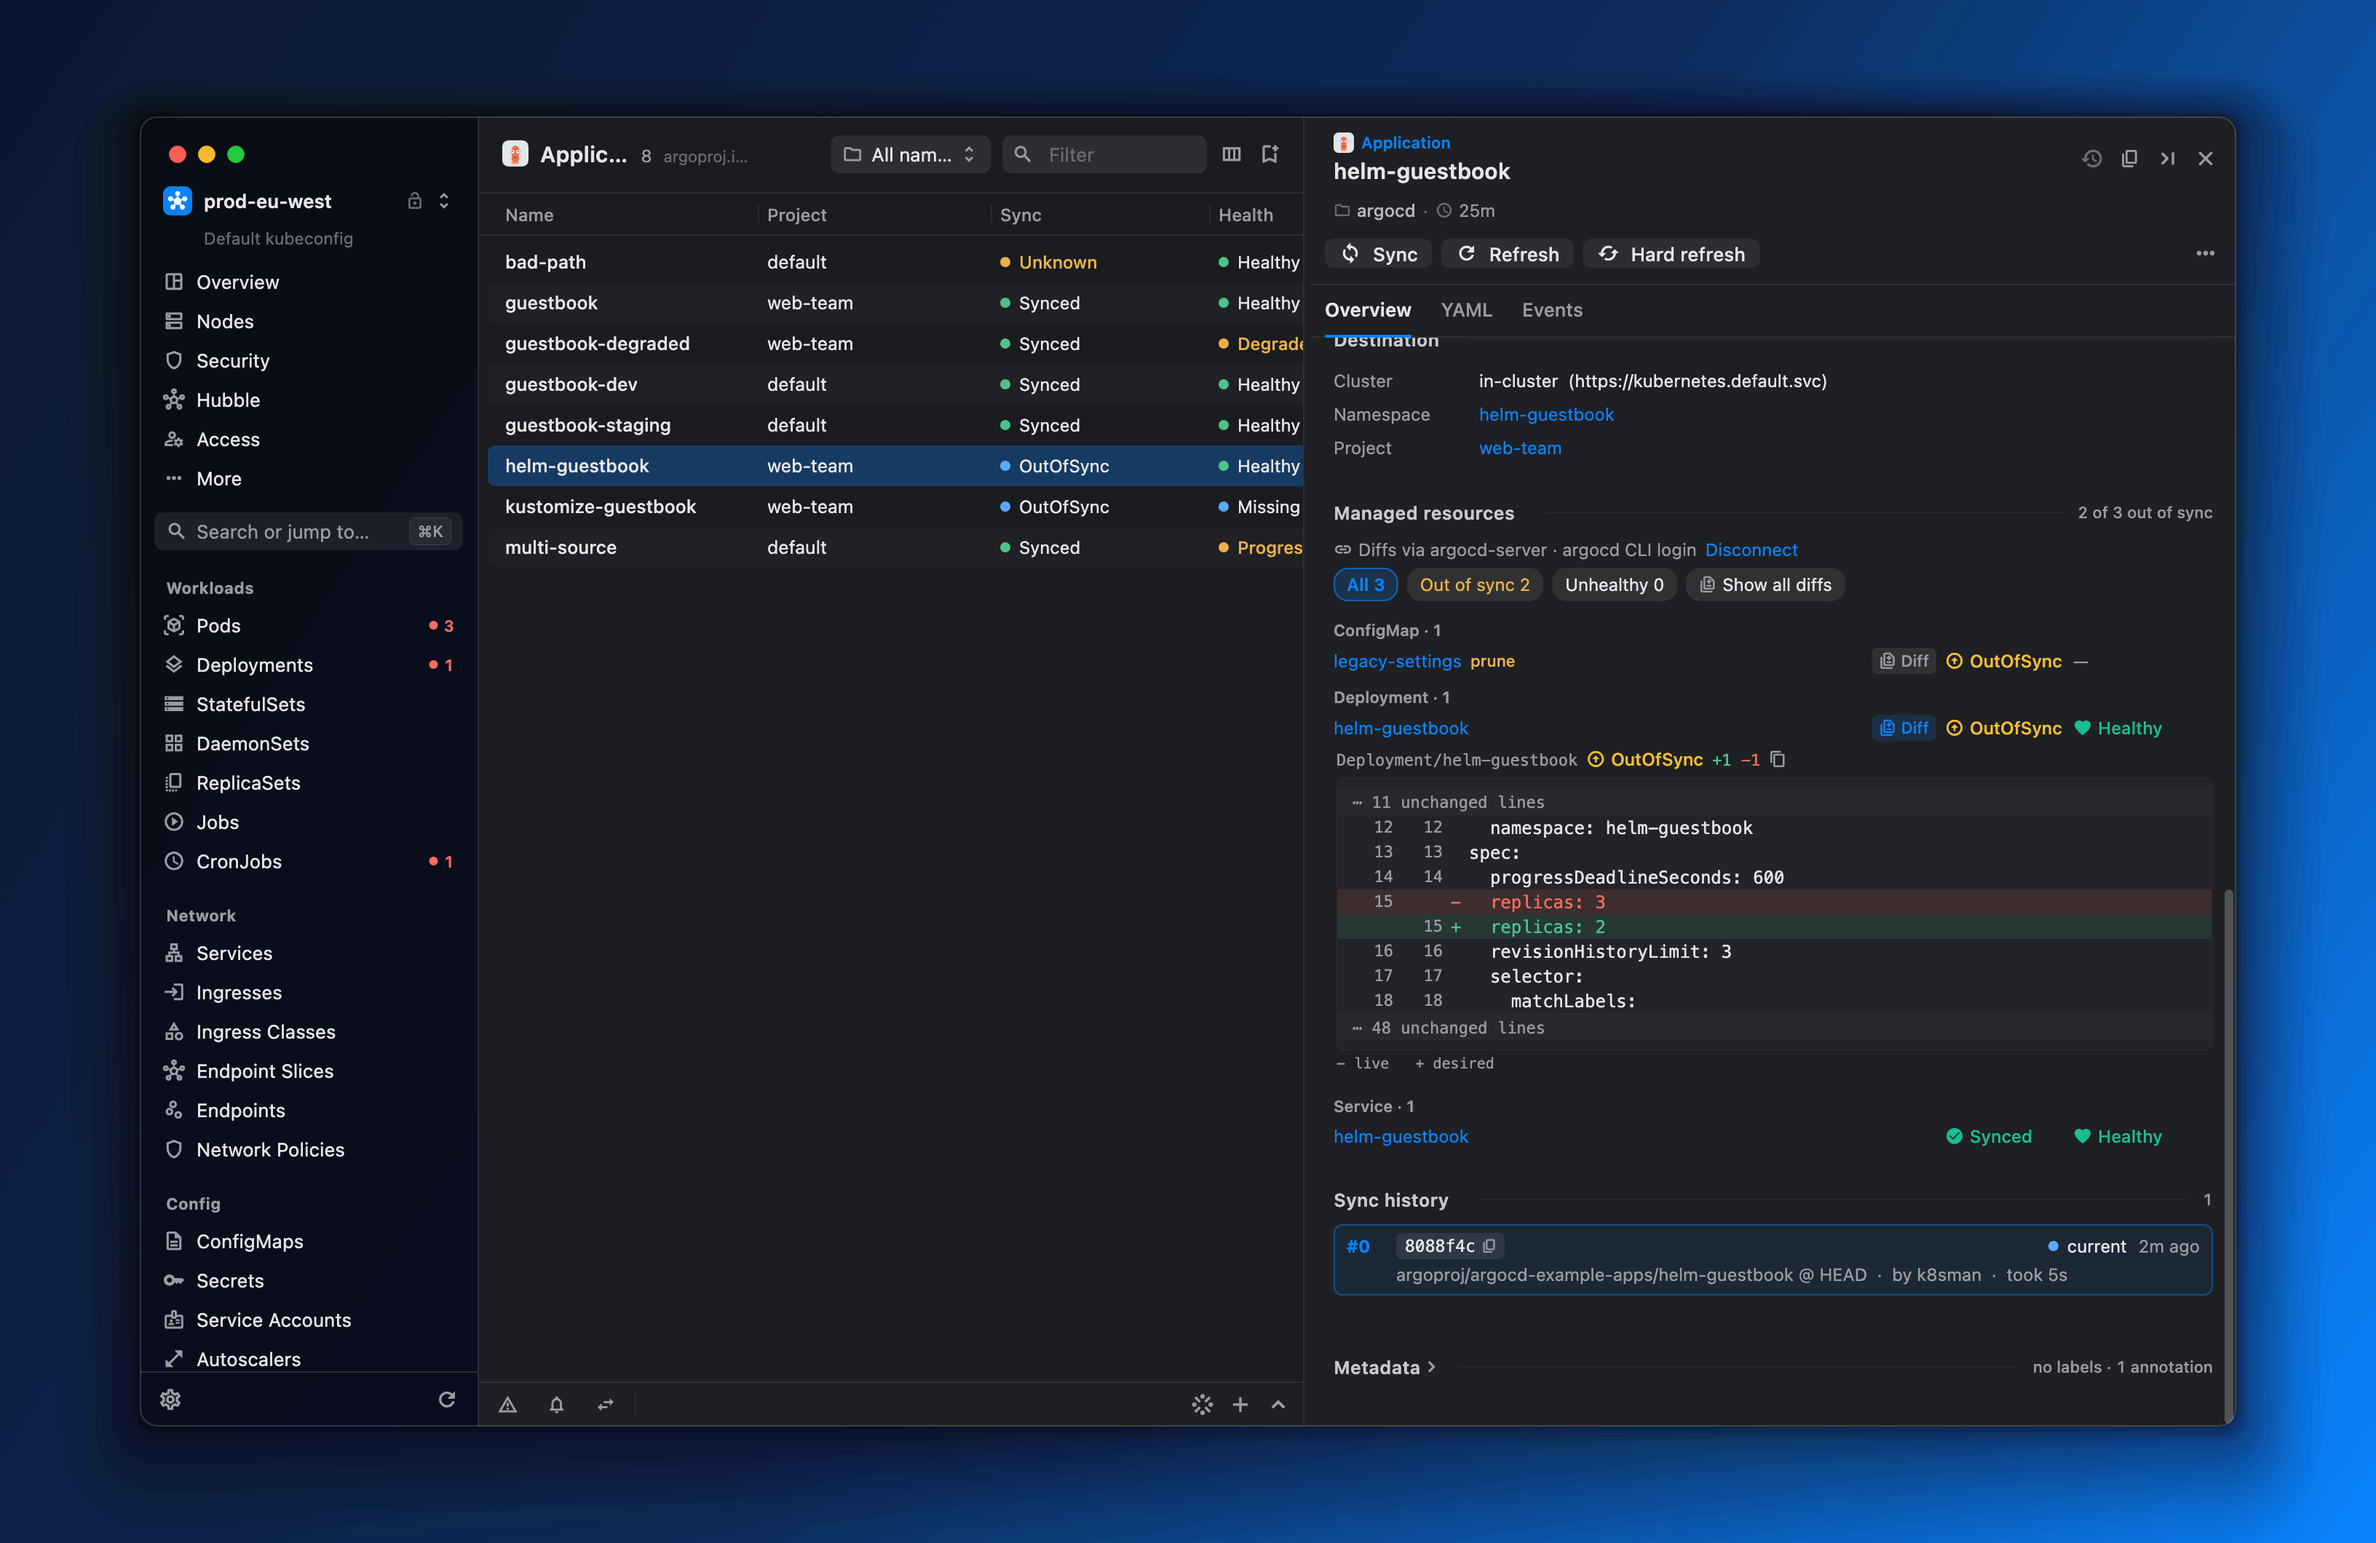
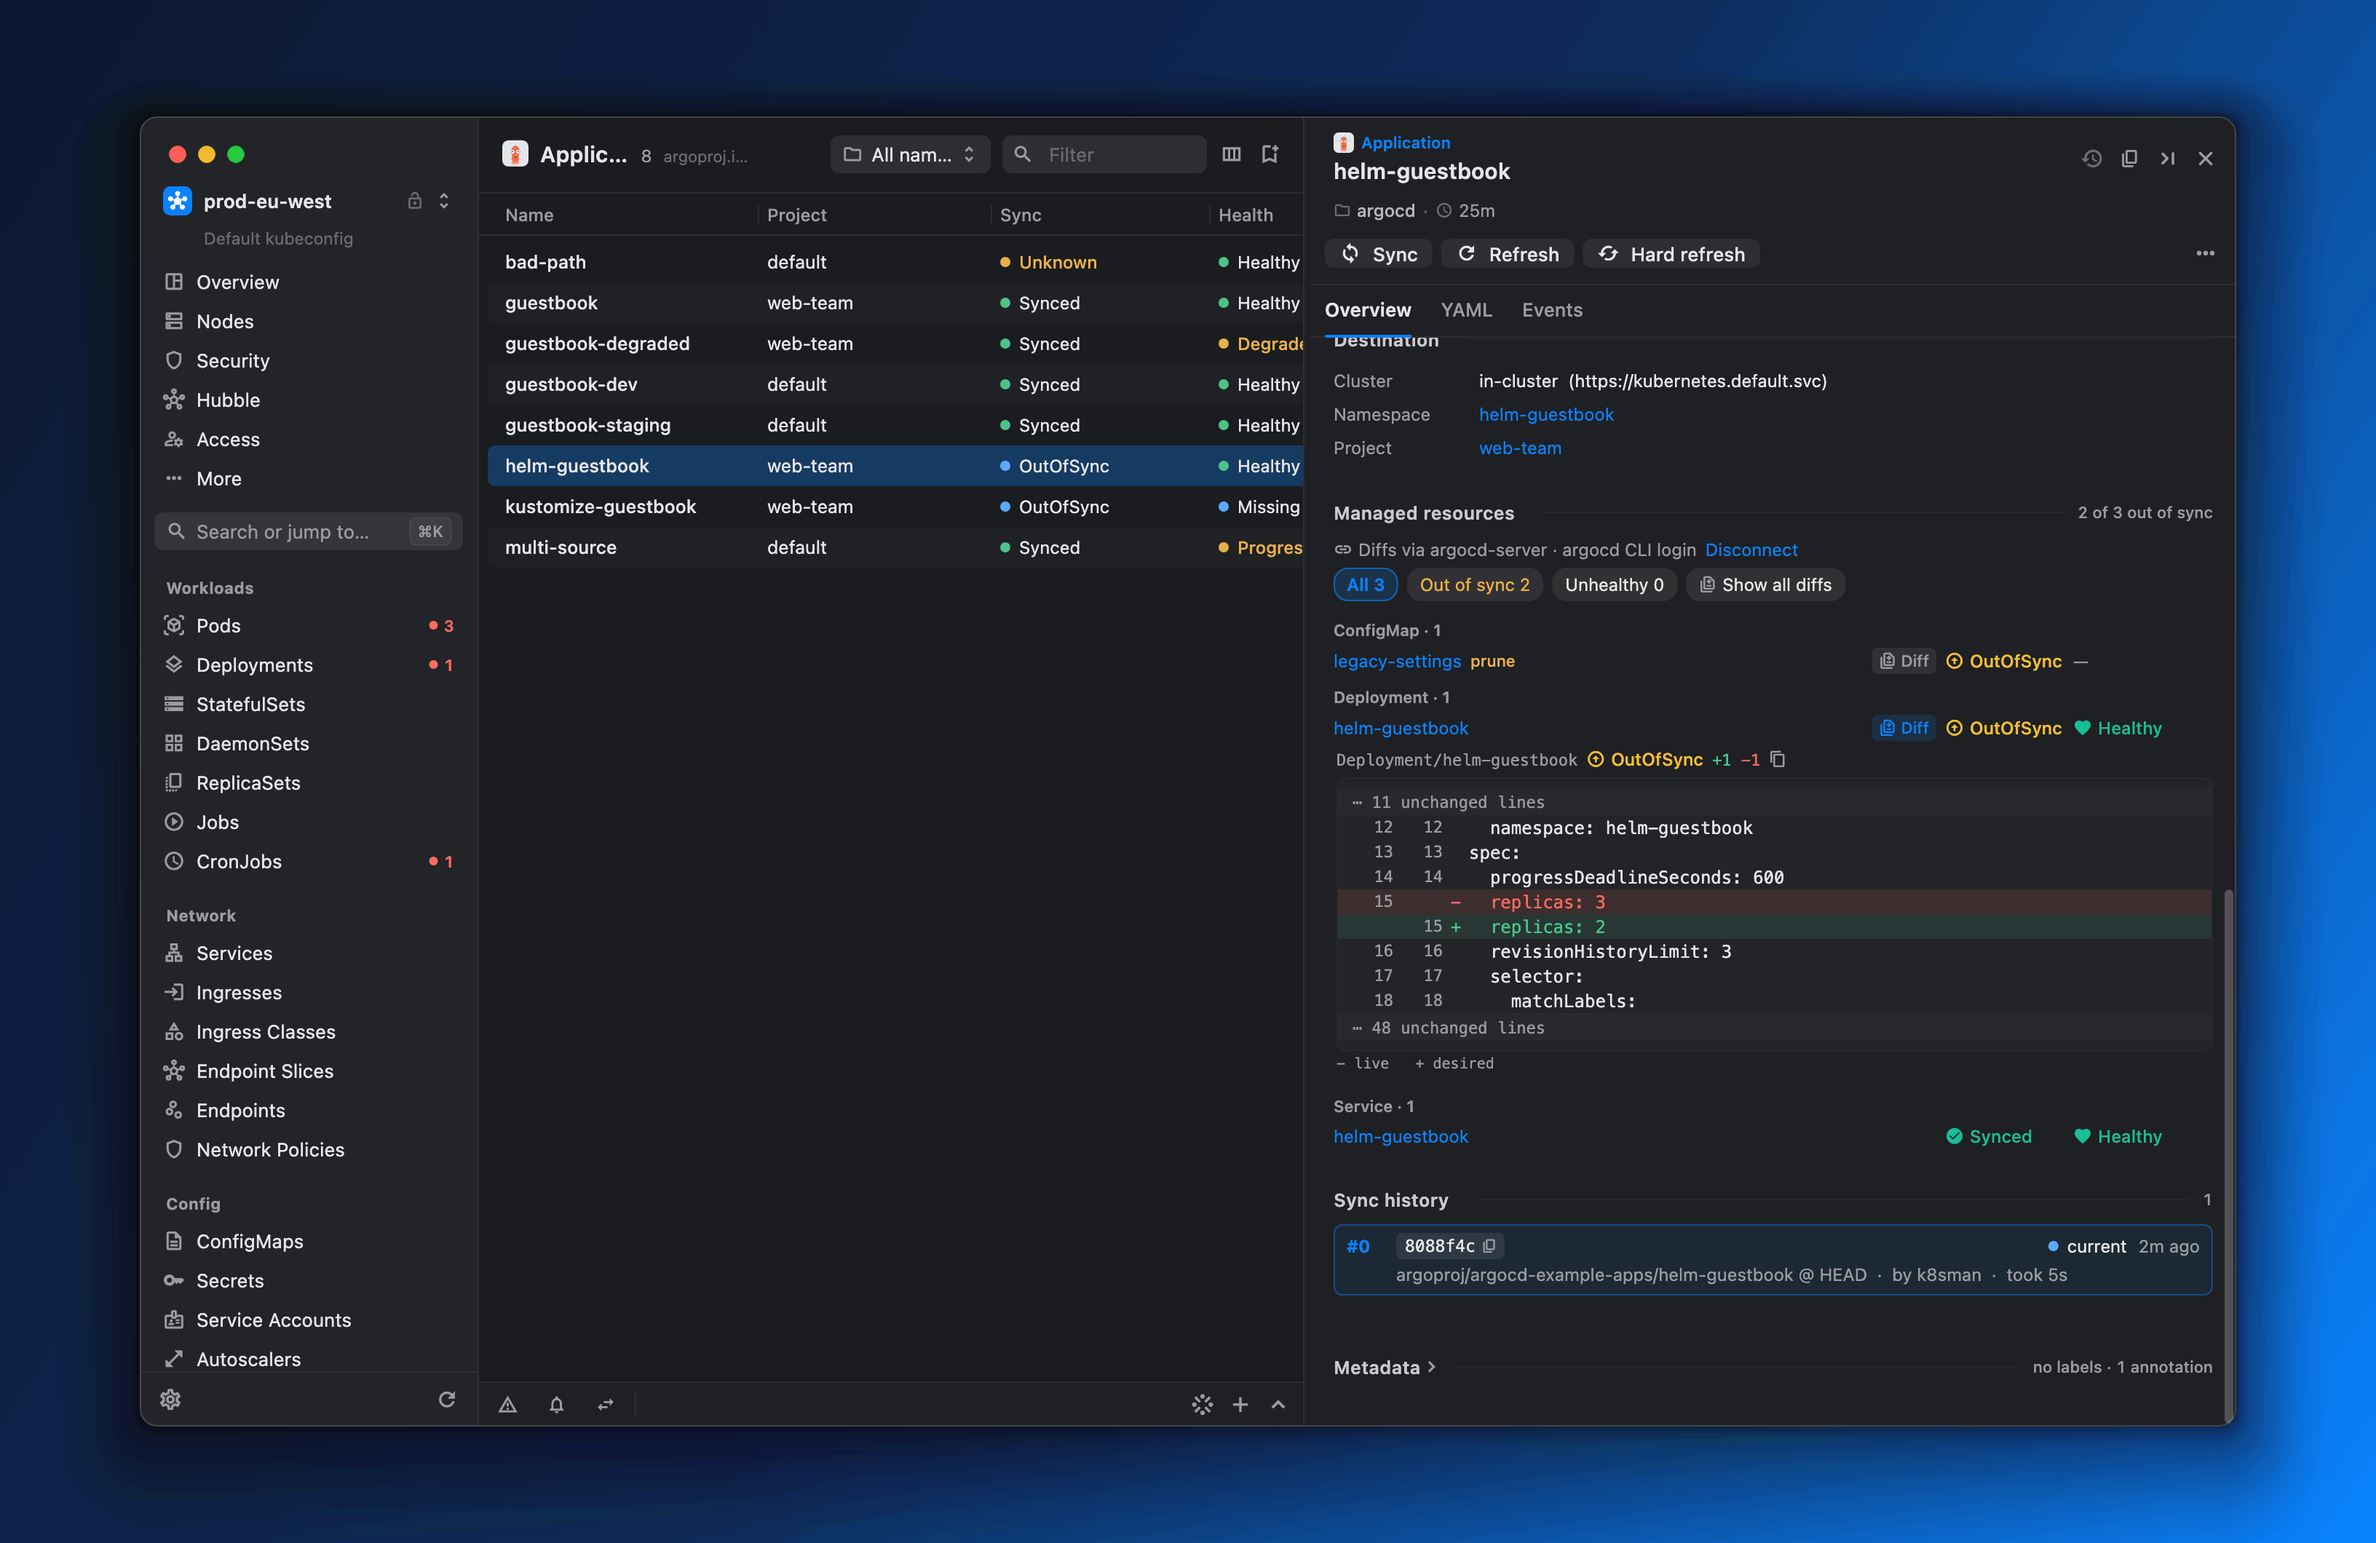
Screenshots: paint the sidebar's vibrancy behind the transparent macOS sidebar; re-rendered

Changed region(s): [[0.0625, 0.0623, 0.2188, 0.934]]

diff --git a/frontend/test/marketing/marketing_shots_test.dart b/frontend/test/marketing/marketing_shots_test.dart
@@ -913,6 +913,9 @@ class MarketingFrame extends StatelessWidget {
           child: ClipRRect(
             borderRadius: BorderRadius.circular(radius),
             child: Stack(children: [
+              // Stands in for the window's vibrancy behind the transparent
+              // macOS sidebar (AppColors.sidebar).
+              Positioned.fill(child: ColoredBox(color: dark ? const Color(0xFF232428) : const Color(0xFFF1F1F3))),
               Positioned.fill(
                 child: MediaQuery(
                   data: MediaQueryData(size: _appSize, platformBrightness: brightness),
